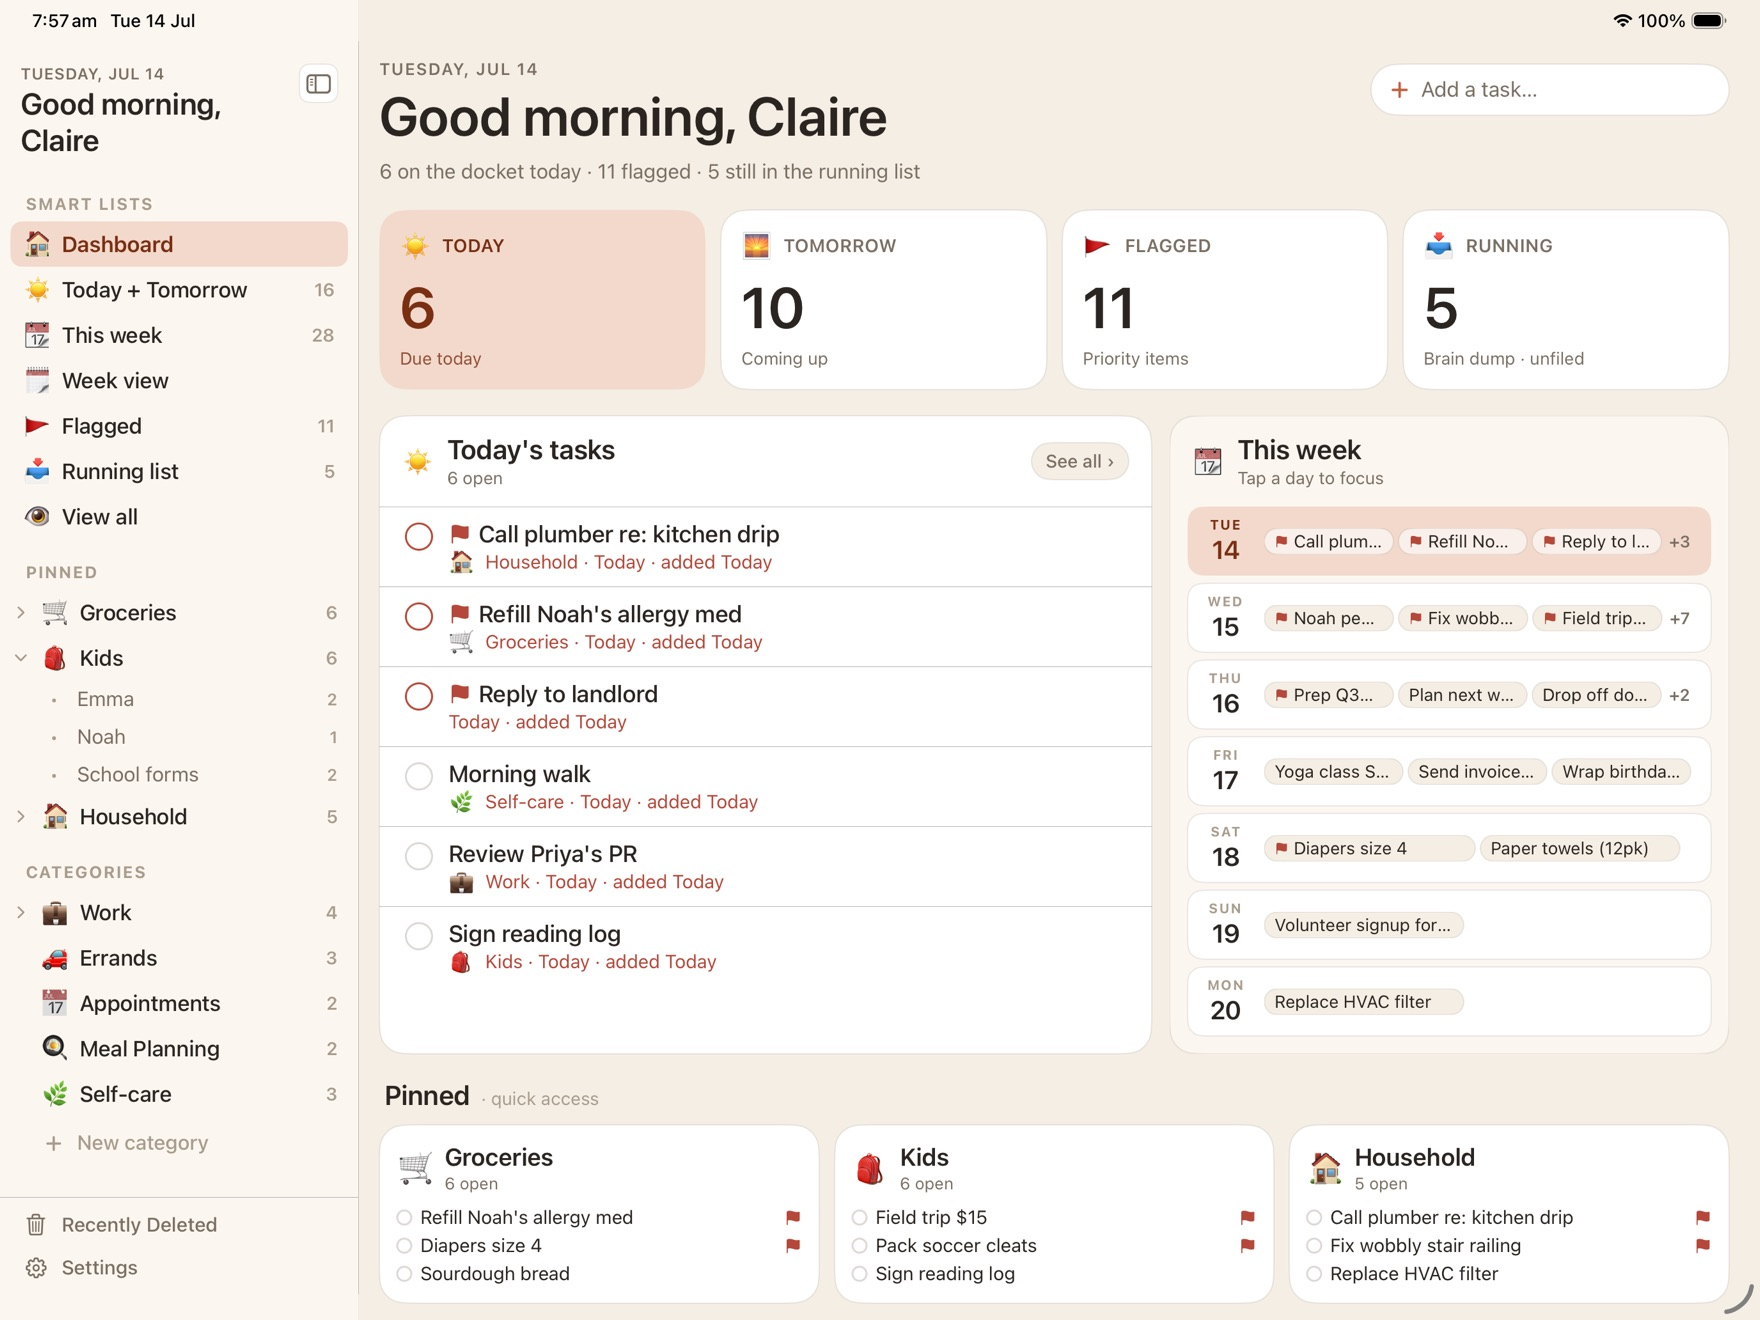
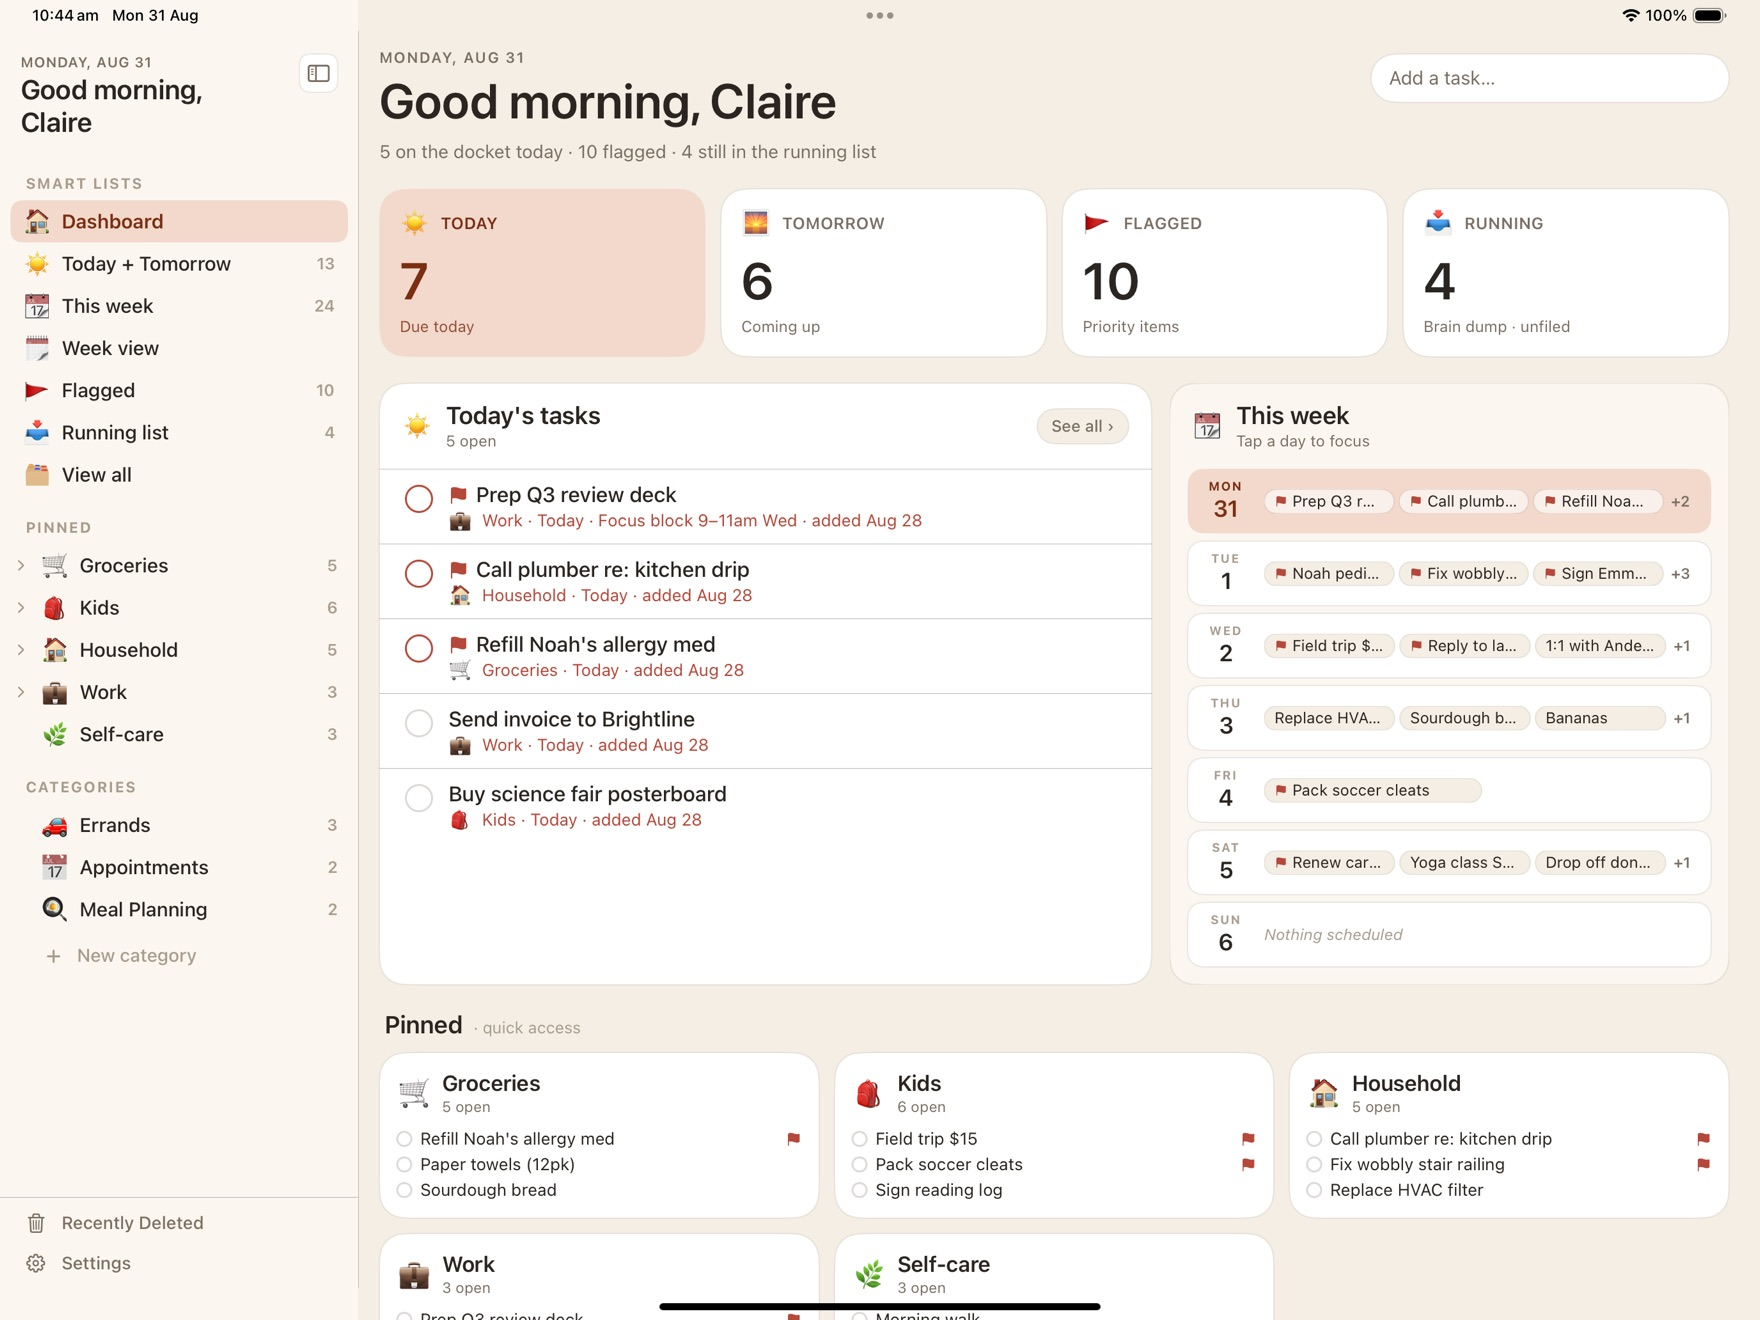
Add Mac to the landing page; refresh screenshots; point Terms at Apple's EULA
- Mac is live on the App Store: flip its platform card from "Coming
  soon" to "Available now", add a dedicated "On Mac" section with a
  real screenshot, update every "iPhone and iPad" mention on the page
  to include Mac, and add a Mac line to the feature list.
- Refresh the iPhone (Main/Running list/Category) and iPad
  (Dashboard/Week) screenshots with the latest August captures; same
  filenames, so no broken links.
- privacy.html, support.html, and terms.html each get a small "← Busy
  B Planner" link back to the home page.
- support.html's Terms of Use link now points at Apple's standard
  EULA (the same URL SettingsScreen.swift uses in-app) instead of the
  site's own terms.html.

diff --git a/index.html b/index.html
@@ -3,9 +3,9 @@
 <head>
 <meta charset="utf-8">
 <meta name="viewport" content="width=device-width, initial-scale=1">
-<meta name="description" content="Busy B Planner is a warm, visual to-do app for people juggling everyday life. Brain-dump into the Running list, file it when you're ready. Free on iPhone and iPad, synced privately over iCloud.">
+<meta name="description" content="Busy B Planner is a warm, visual to-do app for people juggling everyday life. Brain-dump into the Running list, file it when you're ready. Free on iPhone, iPad, and Mac, synced privately over iCloud.">
 <meta property="og:title" content="Busy B Planner">
-<meta property="og:description" content="A warm, visual to-do app for people juggling everyday life. Free on iPhone and iPad.">
+<meta property="og:description" content="A warm, visual to-do app for people juggling everyday life. Free on iPhone, iPad, and Mac.">
 <meta property="og:type" content="website">
 <meta property="og:url" content="https://busybplanner.com/">
 <meta property="og:image" content="https://busybplanner.com/img/ipad-dashboard.jpg">
@@ -168,6 +168,8 @@ h1 em{font-style:normal;color:var(--clay)}
   box-shadow:var(--shadow-lift);width:100%;
 }
 .tablet img{border-radius:15px;width:100%}
+.macwindow{border-radius:12px;overflow:hidden;box-shadow:var(--shadow-lift);width:100%}
+.macwindow img{display:block;width:100%}
 
 /* hero stage: iPad with the iPhone in front of it */
 .stage-wrap{--s:1;height:calc(505px * var(--s));margin-block:6px 2px;overflow:hidden}
@@ -269,7 +271,7 @@ footer .sp{margin-left:auto}
         </a>
         <div>
           <div class="wordmark">Busy B Planner</div>
-          <div class="seller">Todo list &amp; planner for iPhone and iPad</div>
+          <div class="seller">Todo list &amp; planner for iPhone, iPad, and Mac</div>
         </div>
       </div>
 
@@ -281,7 +283,7 @@ footer .sp{margin-left:auto}
         <a class="storelink" href="https://apps.apple.com/us/app/busy-b-planner/id6768819696?itscg=30200&itsct=apps_box_badge&mttnsubad=6768819696" style="display: inline-block;">
           <img src="https://toolbox.marketingtools.apple.com/api/v2/badges/download-on-the-app-store/black/en-us?releaseDate=1785110400" alt="Download on the App Store" style="width: 245px; height: 82px; vertical-align: middle; object-fit: contain;" />
         </a>
-        <p class="price-note"><b>Free to download.</b><br>iPhone and iPad. No account, no sign-up.</p>
+        <p class="price-note"><b>Free to download.</b><br>iPhone, iPad, and Mac. No account, no sign-up.</p>
       </div>
     </div>
   </section>
@@ -353,6 +355,19 @@ footer .sp{margin-left:auto}
     </div>
   </section>
 
+  <!-- 5b ── Mac -->
+  <section class="item">
+    <div class="tick" aria-hidden="true"><svg viewBox="0 0 20 20"><path d="M3.5 10.5 L8 15 L16.5 5"/></svg></div>
+    <div class="body">
+      <p class="eyebrow">On Mac</p>
+      <h2>Now a real Mac app, not an iPad on a bigger screen.</h2>
+      <p class="section-lede" style="margin-bottom:30px">A native window with its own menu bar, and keyboard shortcuts (&#8984;1&ndash;&#8984;5) to jump straight to a smart list. Same sidebar, same tasks, same iCloud account as your phone and iPad.</p>
+      <div class="macwindow">
+        <img src="img/mac-dashboard.jpg" width="1760" height="1112" alt="Busy B on Mac: a sidebar of smart lists and categories beside today's tasks and the week ahead, in a native windowed app." loading="lazy">
+      </div>
+    </div>
+  </section>
+
   <!-- 6 ── feature list -->
   <section class="item">
     <div class="tick" aria-hidden="true"><svg viewBox="0 0 20 20"><path d="M3.5 10.5 L8 15 L16.5 5"/></svg></div>
@@ -373,6 +388,7 @@ footer .sp{margin-left:auto}
         <li><span><b>iCloud sync</b>: your tasks, everywhere, automatically</span></li>
         <li><span><b>Nine themes</b>: hand-crafted palettes, each with dark mode</span></li>
         <li><span><b>Daily briefing</b>: a morning summary of the day ahead</span></li>
+        <li><span><b>Mac app</b>: a native window with keyboard shortcuts, not a stretched iPad app</span></li>
       </ul>
       <p class="note">Unlimited categories, subcategories, the full theme collection and the daily briefing come with Busy B Pro, available inside the app.</p>
     </div>
@@ -384,7 +400,7 @@ footer .sp{margin-left:auto}
     <div class="body">
       <p class="eyebrow">Where it runs</p>
       <h2>Same list, whichever device is closest.</h2>
-      <p class="section-lede">Add it on the phone, sort it out on the iPad. iCloud keeps both current without you thinking about it.</p>
+      <p class="section-lede">Add it on the phone, sort it out on the iPad, review it on the Mac. iCloud keeps all three current without you thinking about it.</p>
 
       <div class="plats">
         <div class="plat">
@@ -403,13 +419,13 @@ footer .sp{margin-left:auto}
           <p>The three-pane Command Center and Week view. iPadOS&nbsp;18 or later.</p>
           <span class="pill">Available now</span>
         </div>
-        <div class="plat soon">
+        <div class="plat">
           <svg class="glyph" width="26" height="26" viewBox="0 0 24 24" fill="none" stroke="currentColor" stroke-width="1.7" aria-hidden="true">
             <rect x="2.5" y="4" width="19" height="13" rx="2"/><path d="M8 20.5h8M12 17v3.5"/>
           </svg>
           <h3>Mac</h3>
-          <p>A native Mac app is in the works. Apple&nbsp;silicon Macs can install the iPad version from the App Store today.</p>
-          <span class="pill">Coming soon</span>
+          <p>A native window, real keyboard shortcuts, its own menu bar. macOS&nbsp;15 or later, Apple&nbsp;silicon.</p>
+          <span class="pill">Available now</span>
         </div>
       </div>
     </div>
@@ -434,7 +450,7 @@ footer .sp{margin-left:auto}
       <a class="storelink" href="https://apps.apple.com/us/app/busy-b-planner/id6768819696?itscg=30200&itsct=apps_box_badge&mttnsubad=6768819696" style="display: inline-block;">
         <img src="https://toolbox.marketingtools.apple.com/api/v2/badges/download-on-the-app-store/black/en-us?releaseDate=1785110400" alt="Download on the App Store" style="width: 245px; height: 82px; vertical-align: middle; object-fit: contain;" />
       </a>
-      <p class="price-note">Free on the App&nbsp;Store.<br>iPhone and iPad &middot; Mac coming soon.</p>
+      <p class="price-note">Free on the App&nbsp;Store.<br>iPhone, iPad, and Mac.</p>
     </div>
     <p class="contact">Questions, bugs, or an idea for the app? Write to
       <a href="mailto:support@busybplanner.com">support@busybplanner.com</a> and a human answers,

diff --git a/support.html b/support.html
@@ -13,6 +13,9 @@
   p, li { font-size: 15px; color: #3a352f; }
   .updated { color: #7A6F62; font-size: 13px; margin-bottom: 32px; }
   a { color: #C2603F; }
+  .back { display:inline-flex; align-items:center; gap:6px; margin-bottom:28px;
+         color:#7A6F62; font-size:14px; text-decoration:none; font-weight:600; }
+  .back:hover { color:#C2603F; }
   .mail-button { display: inline-block; margin-top: 8px; padding: 12px 20px;
          background: #C2603F; color: #FFFFFF; text-decoration: none;
          border-radius: 12px; font-weight: 600; font-size: 15px; }
@@ -20,6 +23,7 @@
 </head>
 <body>
 
+<a class="back" href="index.html">&larr; Busy B Planner</a>
 <h1>Support</h1>
 <p class="updated">Busy B (listed on the App Store as "Busy B Planner")</p>
 
@@ -50,7 +54,7 @@ version. Screenshots help a lot.</p>
 
 <h2>More</h2>
 <p>See our <a href="privacy.html">Privacy Policy</a> and
-<a href="terms.html">Terms of Use</a>.</p>
+<a href="https://www.apple.com/legal/itunes/appstore/dev/stdeula" target="_blank" rel="noopener">Terms of Use</a> (Apple's standard EULA, the same one used in the app).</p>
 
 <!-- Cloudflare Web Analytics --><script type='module' src='https://static.cloudflareinsights.com/beacon.min.js' data-cf-beacon='{"token": "2915bb17a9cb431583cb25aea519ac89"}'></script><!-- End Cloudflare Web Analytics -->
 </body>

diff --git a/privacy.html b/privacy.html
@@ -13,10 +13,14 @@
   p, li { font-size: 15px; color: #3a352f; }
   .updated { color: #7A6F62; font-size: 13px; margin-bottom: 32px; }
   a { color: #C2603F; }
+  .back { display:inline-flex; align-items:center; gap:6px; margin-bottom:28px;
+         color:#7A6F62; font-size:14px; text-decoration:none; font-weight:600; }
+  .back:hover { color:#C2603F; }
 </style>
 </head>
 <body>
 
+<a class="back" href="index.html">&larr; Busy B Planner</a>
 <h1>Privacy Policy</h1>
 <p class="updated">Last updated: July 9, 2026</p>
 

diff --git a/terms.html b/terms.html
@@ -13,10 +13,14 @@
   p, li { font-size: 15px; color: #3a352f; }
   .updated { color: #7A6F62; font-size: 13px; margin-bottom: 32px; }
   a { color: #C2603F; }
+  .back { display:inline-flex; align-items:center; gap:6px; margin-bottom:28px;
+         color:#7A6F62; font-size:14px; text-decoration:none; font-weight:600; }
+  .back:hover { color:#C2603F; }
 </style>
 </head>
 <body>
 
+<a class="back" href="index.html">&larr; Busy B Planner</a>
 <h1>Terms of Use</h1>
 <p class="updated">Last updated: July 9, 2026</p>
 
